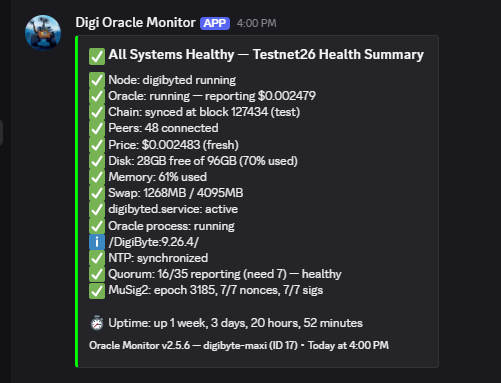
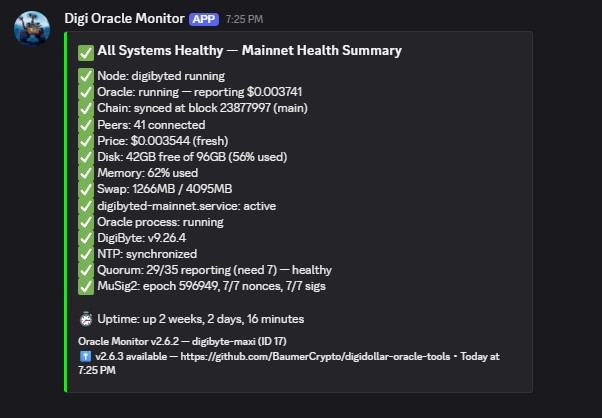
Refresh README visuals for v2.6.3

Changed region(s): [[0.0, 0.0287, 0.8383, 0.9765]]

diff --git a/README.md b/README.md
@@ -96,15 +96,11 @@ Third (caught by Aussie Epic): **the swap alert is now pressure-gated, fixing a 
 
 ![Email alert — Testnet26 Health Summary red](email-alert-testnet.jpg)
 
-**Mainnet Health Summary — green all-clear (pre-activation standby pattern):**
+**Mainnet Health Summary — green all-clear (pre-activation standby pattern), with the auto update-check footer line active:**
 
 ![Email alert — Mainnet Health Summary green](email-alert-mainnet.jpg)
 
-**Mainnet Health Summary with auto update-check footer active — same green card as above, plus the second footer line the monitor adds when a newer published version exists on GitHub:**
-
-![Email alert — Mainnet with update-available footer](email-alert-mainnet-update.jpg)
-
-All three cards carry the `NETWORK_LABEL` subject prefix, the severity tag, and the same footer stamp as the Discord cards. When a newer version exists on GitHub main, the footer gains its second line automatically (the `⬆ vX.Y.Z available — https://github.com/BaumerCrypto/digidollar-oracle-tools` line) — no config change needed. The `https://` scheme is included so email clients auto-linkify the URL universally, including Outlook desktop and corporate gateways that only linkify explicit-scheme URLs (v2.6.1).
+Both cards carry the `NETWORK_LABEL` subject prefix, the severity tag, and the same footer stamp as the Discord cards. When a newer version exists on GitHub main, the footer gains its second line automatically (the `⬆ vX.Y.Z available — https://github.com/BaumerCrypto/digidollar-oracle-tools` line) — no config change needed. The `https://` scheme is included so email clients auto-linkify the URL universally, including Outlook desktop and corporate gateways that only linkify explicit-scheme URLs (v2.6.1).
 
 ### DigiDollar activation status handling
 
